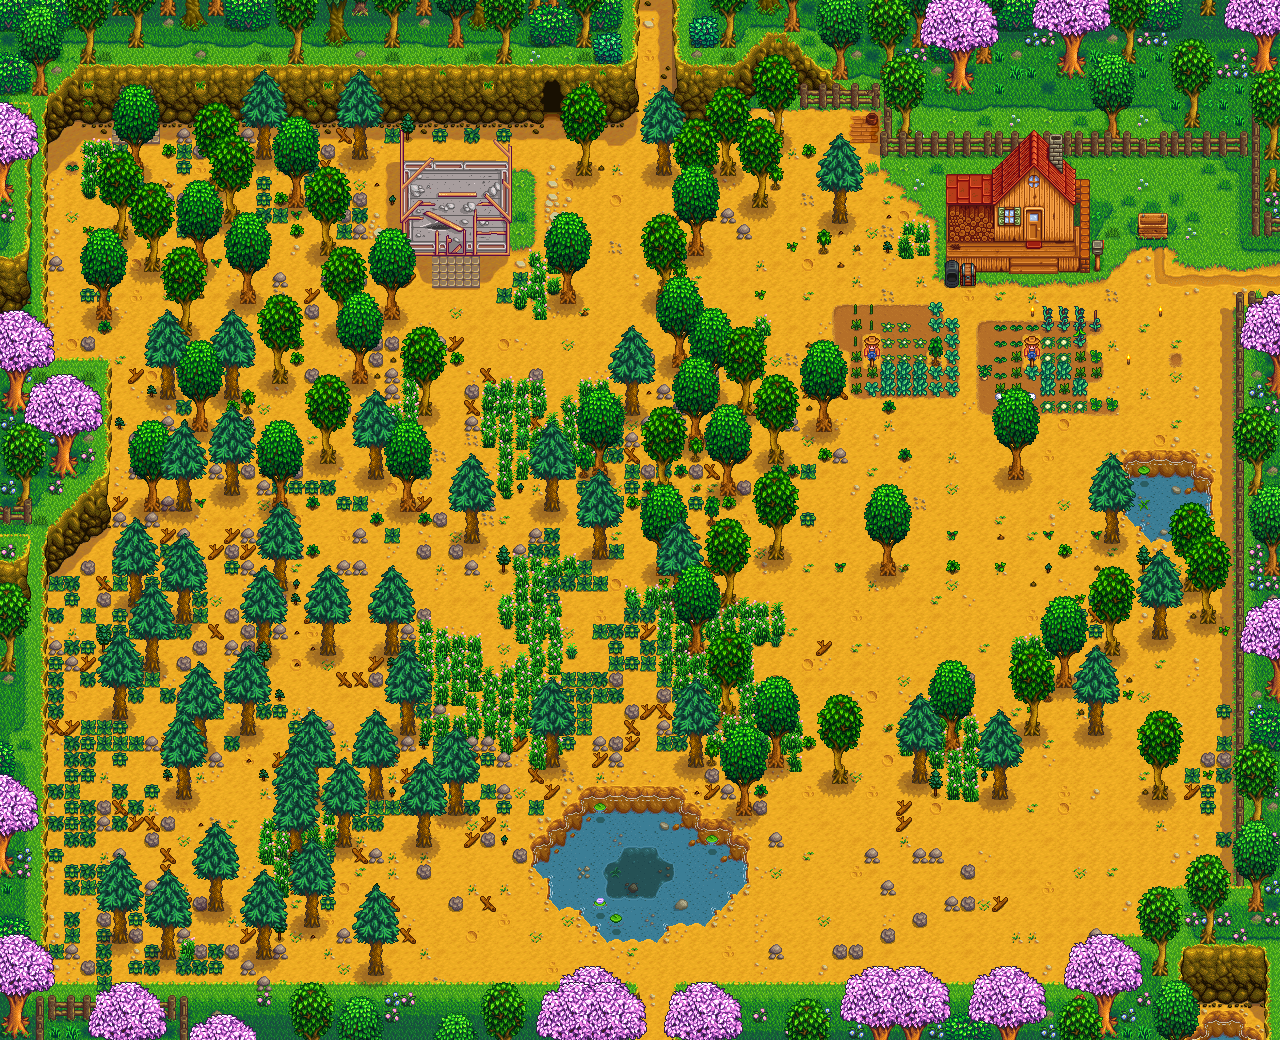
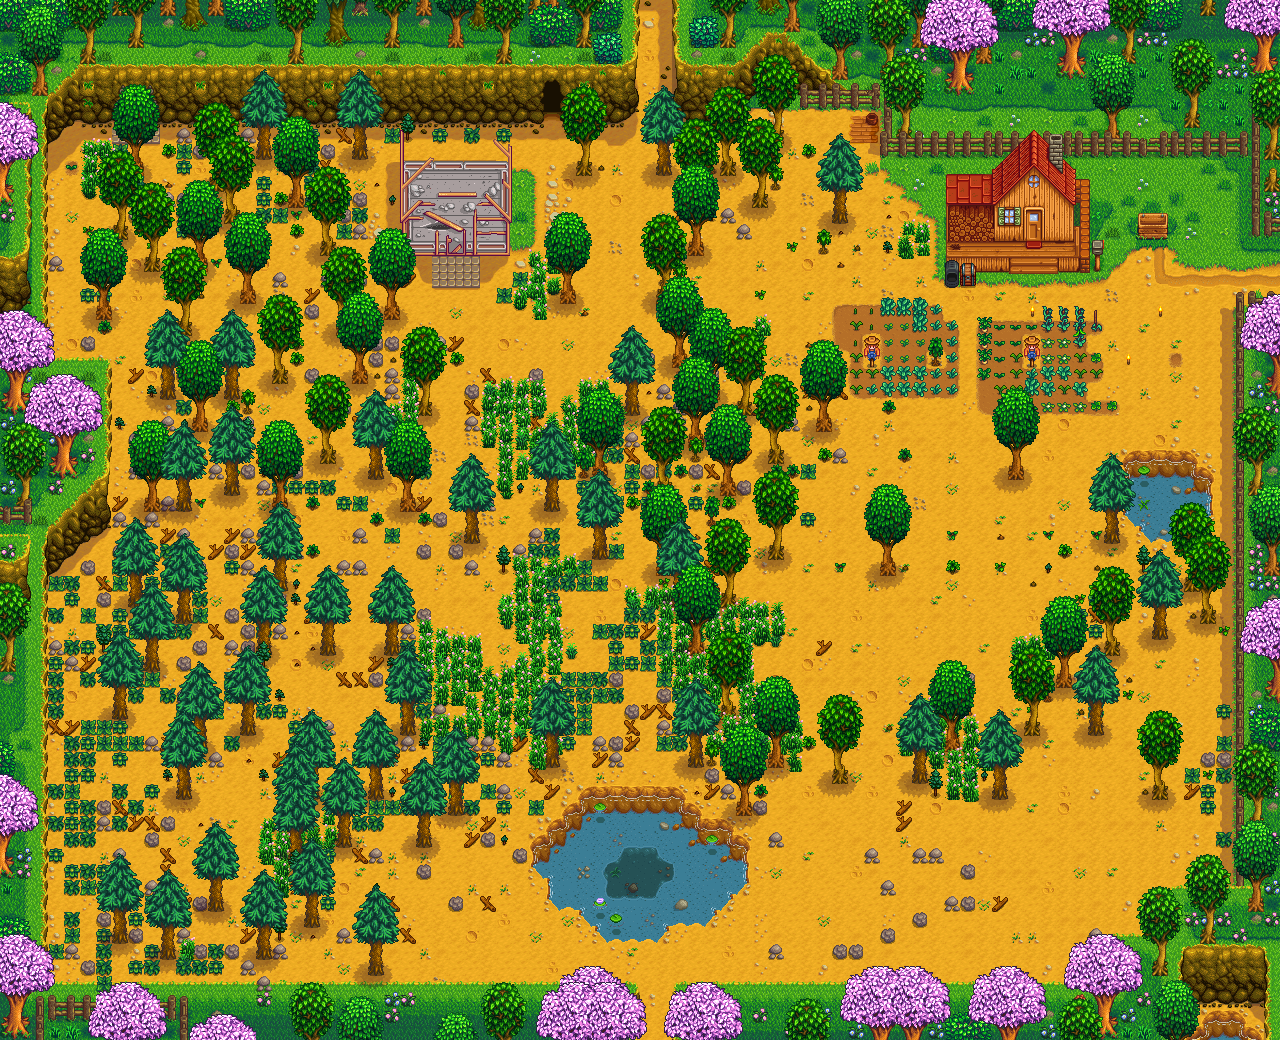
Somewhat random attempt to correct crops stages. Not tested.
Should help with #10

Changed region(s): [[0.6562, 0.2769, 0.875, 0.4]]

diff --git a/view/draw_hoedirt.go b/view/draw_hoedirt.go
@@ -63,7 +63,7 @@ func drawHoeDirt(pm *parser.Map, season string, item *parser.TerrainItem, img dr
 			}
 
 		} else {
-			x0 = (crop.CurrentPhase + 2) * 16
+			x0 = (crop.CurrentPhase + 1) * 16
 		}
 		if crop.RowInSpriteSheet%2 != 0 {
 			x0 += 128
